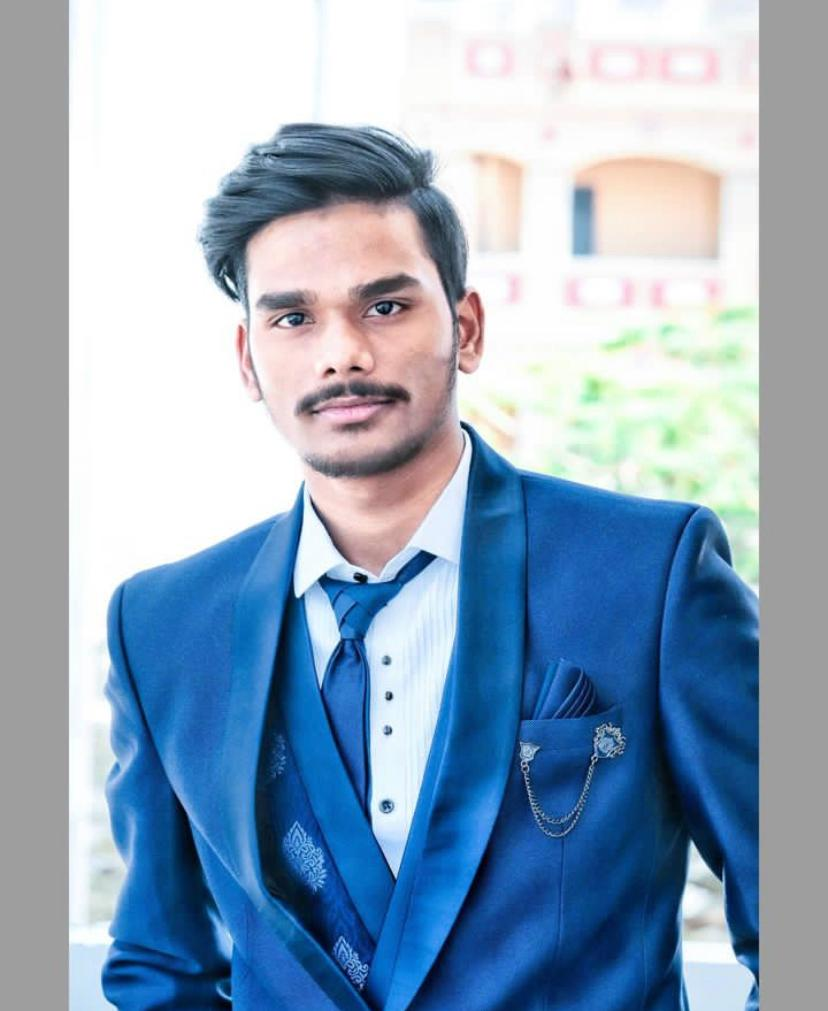
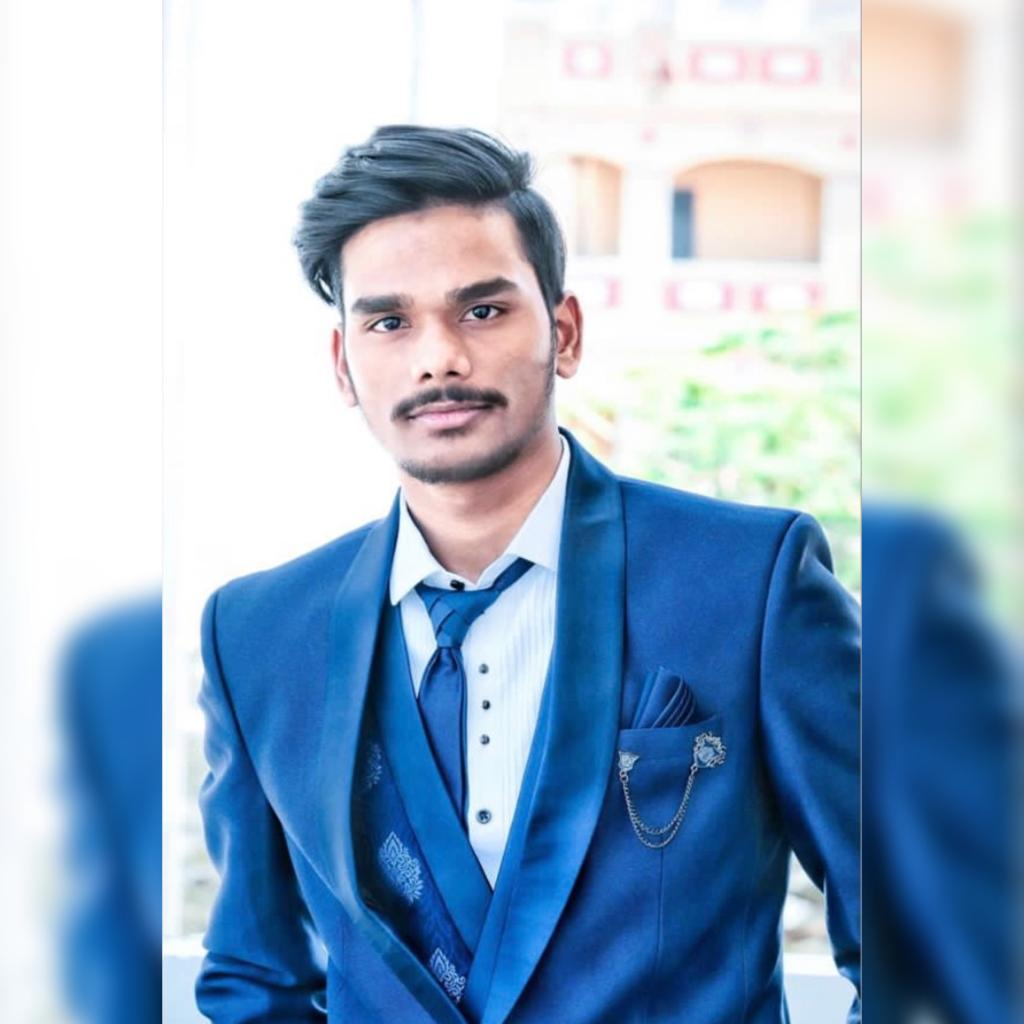
Updated-Files

diff --git a/src/data/constants.js b/src/data/constants.js
@@ -114,6 +114,16 @@ export const skills = [
         image:
           "https://raw.githubusercontent.com/s-abhimanyu/Images/main/aws.png",
       },
+      {
+        name: "Netlify",
+        image:
+          "https://seeklogo.com/images/N/netlify-logo-BD8F8A77E2-seeklogo.com.png",
+      },
+      {
+        name: "EmailJs",
+        image:
+          "https://raw.githubusercontent.com/s-abhimanyu/Images/main/EMAIL-JS.png",
+      },
     ],
   },
 ];

diff --git a/src/components/Contact/index.js b/src/components/Contact/index.js
@@ -130,7 +130,7 @@ const Contact = () => {
 
   const handleSubmit = (e) => {
     e.preventDefault();
-    emailjs.sendForm('service_tox7kqs', 'template_nv7k7mj', form.current, 'SybVGsYS52j2TfLbi')
+    emailjs.sendForm('service_8e6r2f5', 'template_oiijrql', form.current, 'z5Eh_qaLiSwpmbuwR')
       .then((result) => {
         setOpen(true);
         form.current.reset();

diff --git a/src/components/HeroSection/HeroStyle.js b/src/components/HeroSection/HeroStyle.js
@@ -96,7 +96,7 @@ export const Img = styled.img`
   position: relative;
   width: 100%;
   height: 100%;
-  max-width: 300px;
+  max-width: 400px;
   max-height: 400px;
   border-radius: 50%;
   border: 2px solid ${({ theme }) => theme.primary};

diff --git a/README.md b/README.md
@@ -32,11 +32,10 @@ My Portfolio is a React.js application that serves as an online portfolio to sho
 ## Installation
 To run this portfolio locally, follow these steps:
 
-1. Clone the repository: `git clone https://github.com/s-abhimanyu/`
-2. Navigate to the project directory: `cd abhimanyu-portfolio`
-3. Install the dependencies: `npm install`
-4. Start the development server: `npm start`
-5. Open your browser and visit: `http://localhost:3000`
+1. Clone the repository: `git clone https://github.com/s-abhimanyu/Portfolio/`
+2. Install the dependencies: `npm install`
+3. Start the development server: `npm start`
+4. Open your browser and visit: `http://localhost:3000`
 
 ## Usage
 After installing and running the project locally, you can navigate through the different sections of the portfolio using the navigation menu. Explore the About Me section to learn more about my background and skills. Visit the Projects section to see detailed information about my projects, including descriptions and screenshots. Use the Contact section to send me a message or inquiry.
